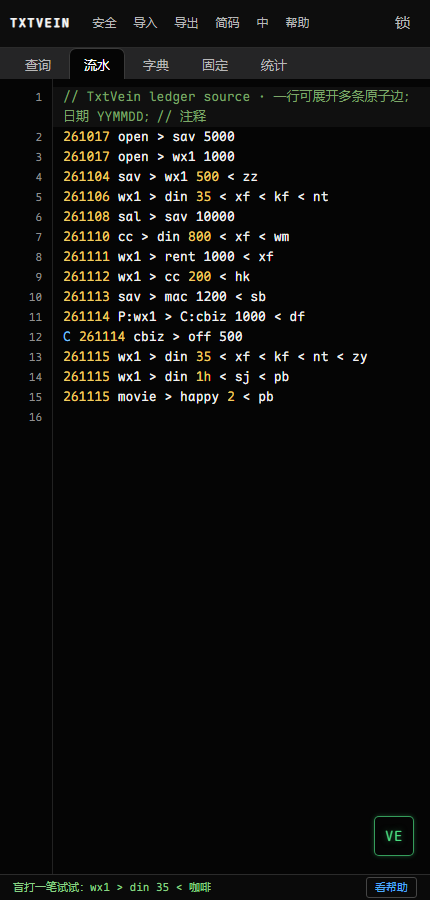
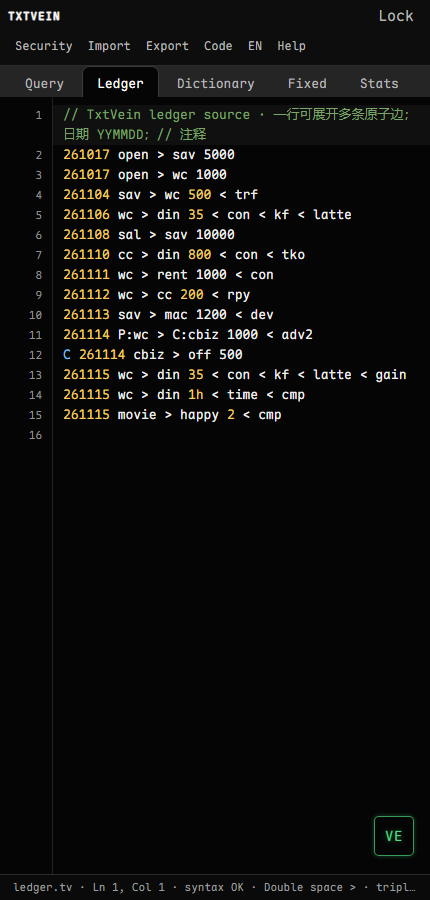
fix: 手机英文工具栏分行，锁按钮常驻

diff --git a/TxtVein.html b/TxtVein.html
@@ -2989,10 +2989,33 @@ body, .app, .main, .editor-view, .query-view, .fixed-view, .report-view { backgr
 .sd-row .sd-num { text-align: right; font-variant-numeric: tabular-nums; color: #ededed; }
 .sd-empty, .stats-empty { padding: 20px 10px; color: #777; font-size: 12px; text-align: center; }
 @media (max-width: 760px) {
+  .topbar {
+    height: auto;
+    min-height: 36px;
+    padding: 3px 8px 4px;
+    gap: 2px 8px;
+    flex-wrap: wrap;
+    align-items: center;
+  }
+  .topbar .brand { flex: 0 0 auto; }
+  .topbar .brand-mark { font-size: 11px; letter-spacing: 0.08em; }
+  .top-right { order: 2; margin-left: auto; flex: 0 0 auto; }
+  .top-menu {
+    order: 3;
+    flex: 1 0 100%;
+    width: 100%;
+    overflow-x: auto;
+    padding-bottom: 1px;
+    scrollbar-width: none;
+  }
+  .top-menu::-webkit-scrollbar { display: none; }
+  .menu-btn { font-size: 12px; padding: 5px 7px; }
+  .top-right .chip { min-width: 30px; height: 28px; padding: 0 7px; }
   .stats-top-row { gap: 6px; }
   .stats-months { padding-bottom: 2px; }
   .stats-tab { flex: 1 1 auto; }
 }
+
 @media (max-width: 600px) {
   .stats-top { padding: 4px 6px; }
   .stats-top-row { gap: 4px; }

diff --git a/css/editor.css b/css/editor.css
@@ -1278,10 +1278,33 @@ body, .app, .main, .editor-view, .query-view, .fixed-view, .report-view { backgr
 .sd-row .sd-num { text-align: right; font-variant-numeric: tabular-nums; color: #ededed; }
 .sd-empty, .stats-empty { padding: 20px 10px; color: #777; font-size: 12px; text-align: center; }
 @media (max-width: 760px) {
+  .topbar {
+    height: auto;
+    min-height: 36px;
+    padding: 3px 8px 4px;
+    gap: 2px 8px;
+    flex-wrap: wrap;
+    align-items: center;
+  }
+  .topbar .brand { flex: 0 0 auto; }
+  .topbar .brand-mark { font-size: 11px; letter-spacing: 0.08em; }
+  .top-right { order: 2; margin-left: auto; flex: 0 0 auto; }
+  .top-menu {
+    order: 3;
+    flex: 1 0 100%;
+    width: 100%;
+    overflow-x: auto;
+    padding-bottom: 1px;
+    scrollbar-width: none;
+  }
+  .top-menu::-webkit-scrollbar { display: none; }
+  .menu-btn { font-size: 12px; padding: 5px 7px; }
+  .top-right .chip { min-width: 30px; height: 28px; padding: 0 7px; }
   .stats-top-row { gap: 6px; }
   .stats-months { padding-bottom: 2px; }
   .stats-tab { flex: 1 1 auto; }
 }
+
 @media (max-width: 600px) {
   .stats-top { padding: 4px 6px; }
   .stats-top-row { gap: 4px; }

diff --git a/STATUS.md b/STATUS.md
@@ -22,7 +22,7 @@
 
 ```text
 D:\myproject\TxtVein\
-├─ TxtVein.html          795.1 KB 单文件成品（内置 Maple Mono Web 字体）
+├─ TxtVein.html          795.7 KB 单文件成品（内置 Maple Mono Web 字体）
 ├─ index.html            开发入口
 ├─ css/ (5)              base / ledger / report / panels / editor
 ├─ js/core/ (17)         text/amount/date/dict/ids/parser/source/calc/
@@ -45,7 +45,7 @@ D:\myproject\TxtVein\
 
 | 项 | 现状 |
 |---|---|
-| 单文件 | `TxtVein.html` **795.1 KB**；零外链、零 CDN；字体 base64 内嵌 |
+| 单文件 | `TxtVein.html` **795.7 KB**；零外链、零 CDN；字体 base64 内嵌 |
 | 数据事实 | 后台 ID 图；编辑器文本是投影 + 手稿；ID 不出现在 UI |
 | 源码编辑器 | 流水 `ledger.tv` / 字典 `dict.tv` 双 CM5；行号、高亮、单波浪线（只标出错 token）、补全、运算符工具条 |
 | 相对日期 | `-1` 自动补昨天日期，并按日期插入到昨天位置；`0/-2/+1` 同理 |

diff --git a/README.md b/README.md
@@ -142,6 +142,7 @@ wx1 > din 35 < 咖啡 < 拿铁
 - **固定页**：`[PLAN]` 固定收支 + `[RULES]` 自动规则，纯文本编辑；
 - **右下角 VE 气泡**：点击展开单输入框，可拖动位置；手机不再被固定输入条占住。
 - **手机编辑器**：窄屏自动换行，行号列固定在左侧，不随手指左右拖动。
+- **手机英文工具栏**：品牌与「锁」固定第一行，Security / Import / Export / Code / EN / Help 放到第二行，不再挤掉锁按钮。
 - **字体**：优先 `JetBrains Maple Mono`，内置 `Maple Mono Web` 兜底；高对比深黑，编辑器不做灰底。
 - **输入框上方反馈栏**：有反馈显示反馈，无反馈显示光标、错误数和快捷键提示；蓝色状态条已移除。
 - **VS Code Dark+ 深灰**：15px 基准、14px 编辑器；去掉网格和光晕，字号不再依赖浏览器 110% 缩放。

diff --git a/NEXT.md b/NEXT.md
@@ -1,7 +1,7 @@
 # 下一轮：TxtVein v2.1 → v2.2
 
 > 先读 `STATUS.md` 一页看全，再读 `HANDOFF.md` 的「不能回退」。
-> 当前基线：**108 Node / 121 门禁 / 52 E2E / 单文件冒烟全绿**，单文件 **795.1 KB**。
+> 当前基线：**108 Node / 121 门禁 / 52 E2E / 单文件冒烟全绿**，单文件 **795.7 KB**。
 
 ---
 
